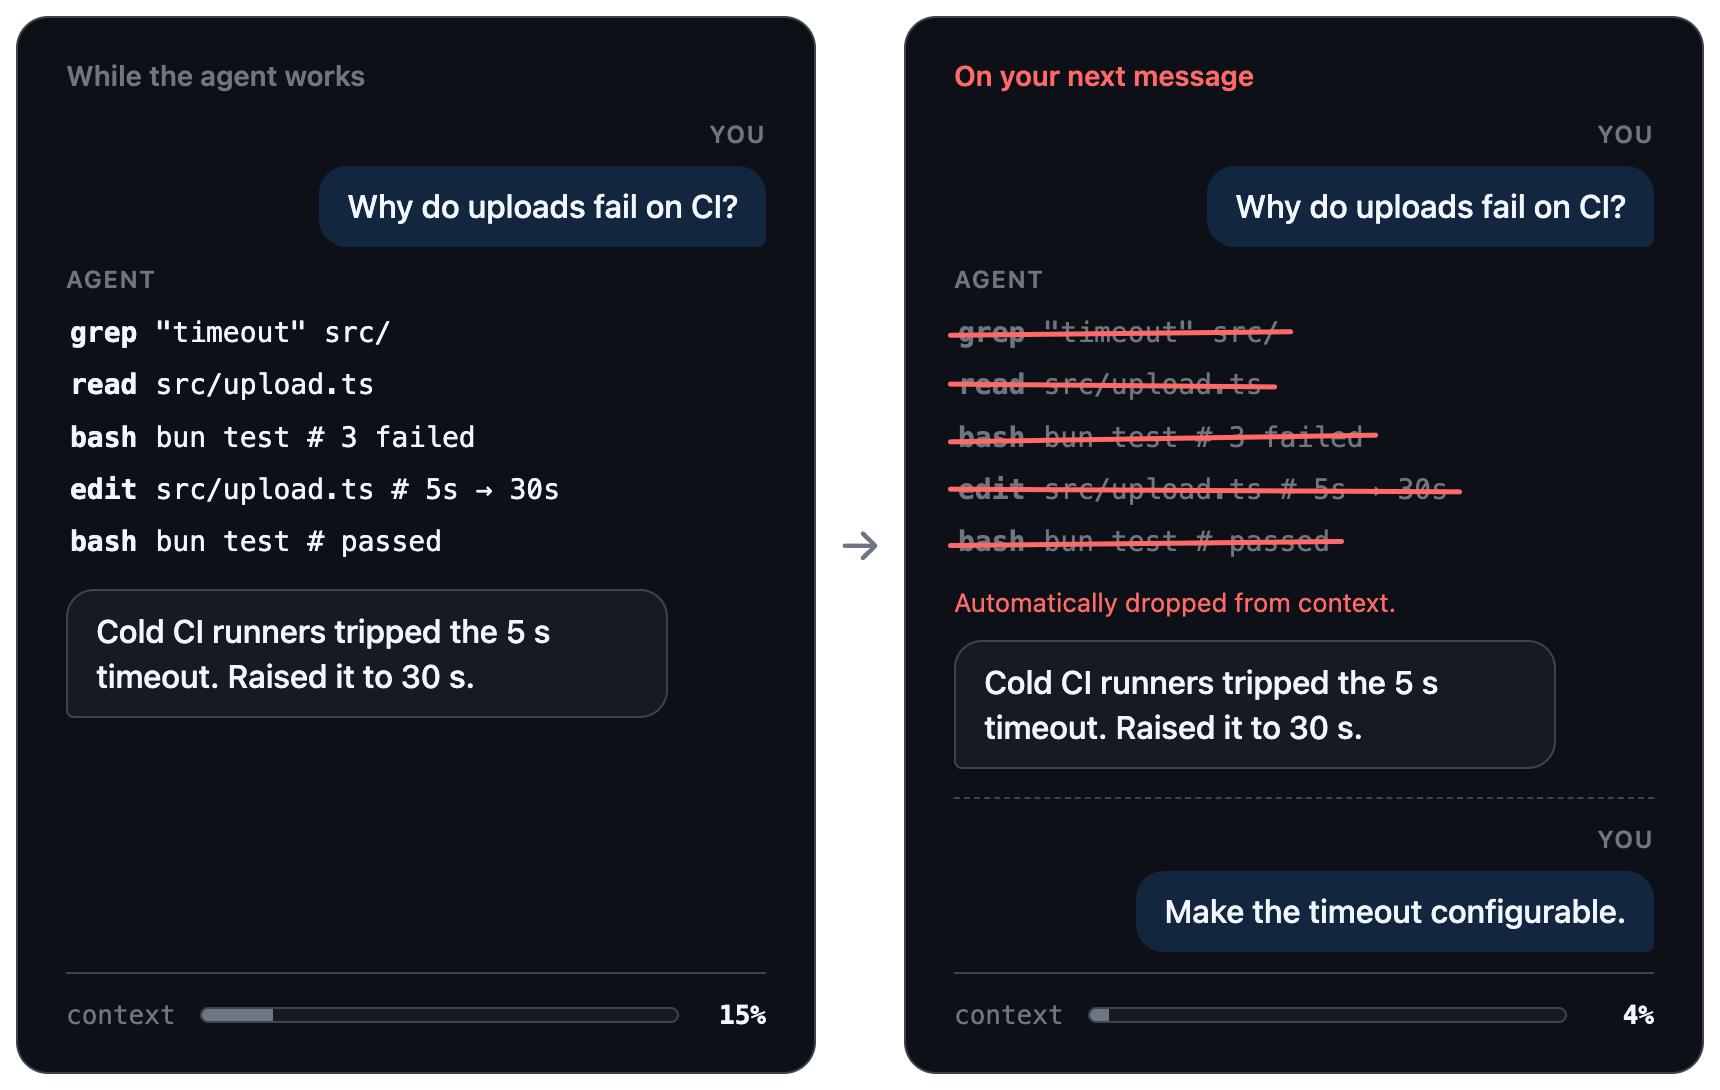
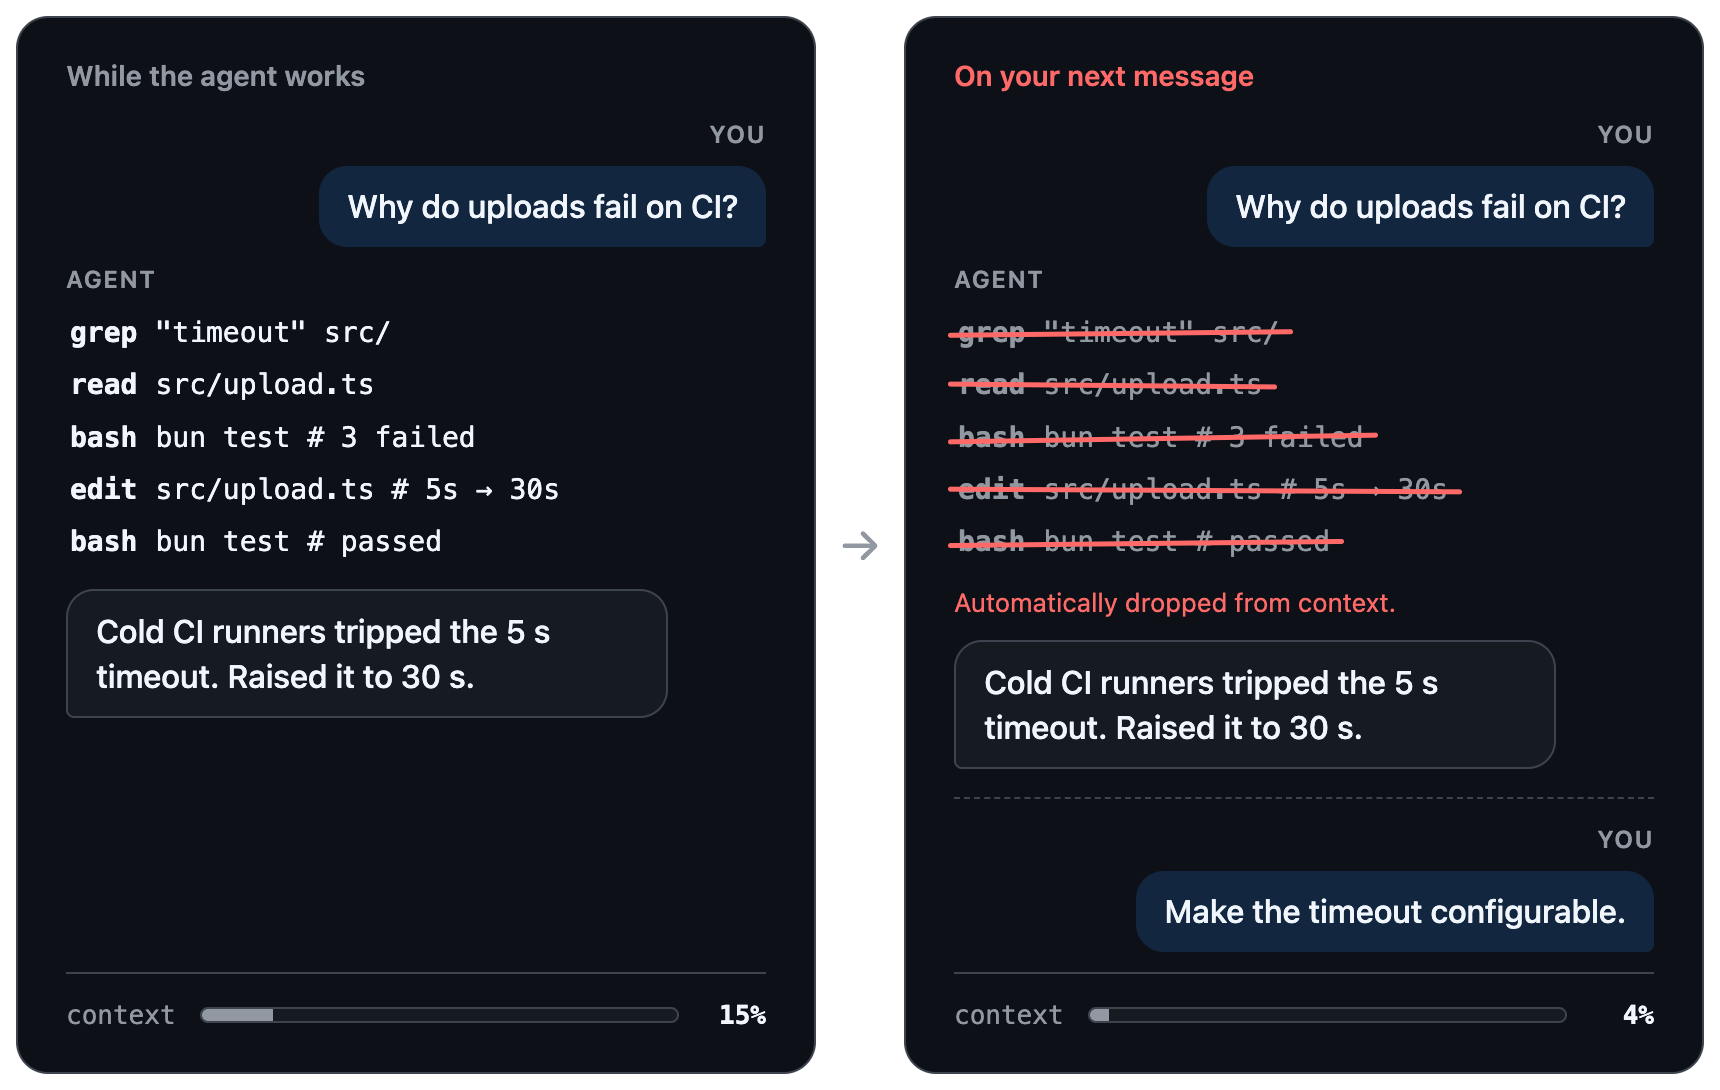
docs(readme): raise diagram caption contrast to WCAG AA

diff --git a/docs/how-a-run-works/index.html b/docs/how-a-run-works/index.html
@@ -5,12 +5,12 @@
 <title>How a run works</title>
 <style>
 :root {
-  --text: #1f2328; --muted: #8c959f; --border: #d1d9e0; --panel: #ffffff; --red: #d1242f;
+  --text: #1f2328; --muted: #59636e; --border: #d1d9e0; --panel: #ffffff; --red: #d1242f;
   --you: #ddf4ff; --agent: #f6f8fa;
   --sans: system-ui, -apple-system, sans-serif;
   --mono: ui-monospace, "SF Mono", Menlo, monospace;
 }
-html.dark { --text: #f0f6fc; --muted: #6e7681; --border: #3d444d; --panel: #0d1117; --red: #ff6a69;
+html.dark { --text: #f0f6fc; --muted: #9198a1; --border: #3d444d; --panel: #0d1117; --red: #ff6a69;
   --you: #12263f; --agent: #161b22; }
 * { box-sizing: border-box; margin: 0; }
 html, body { background: transparent; }
